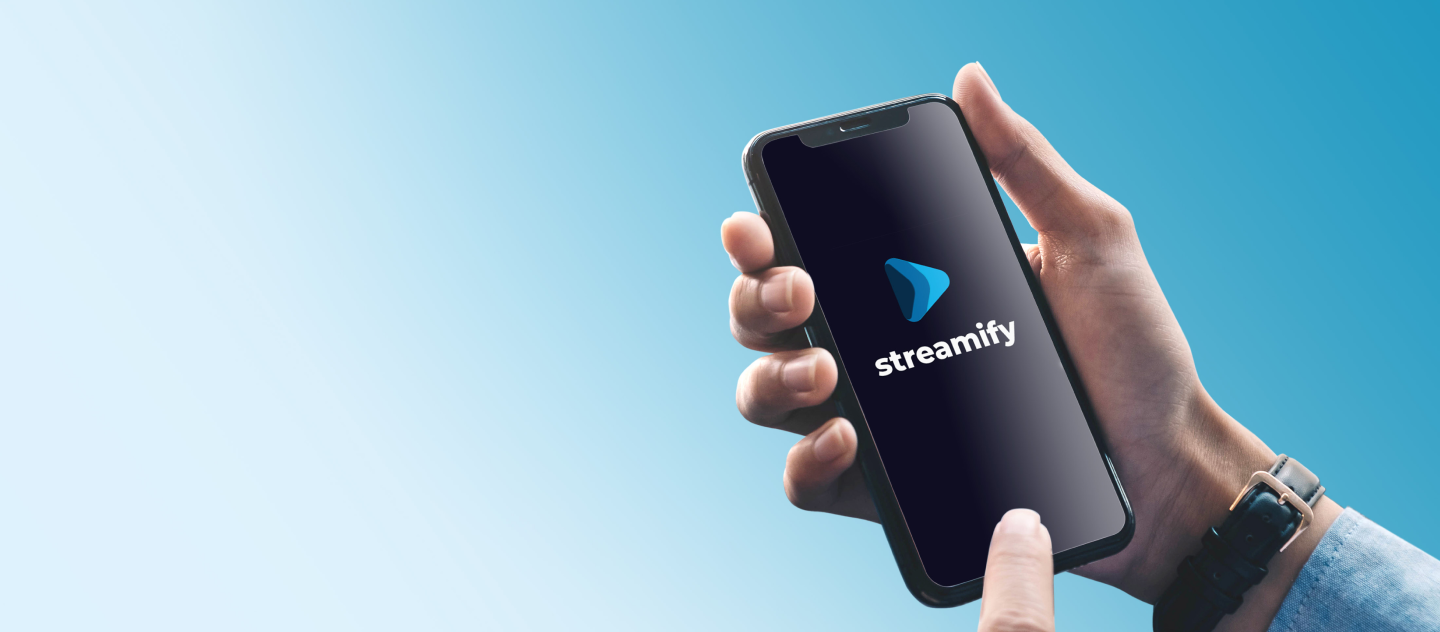
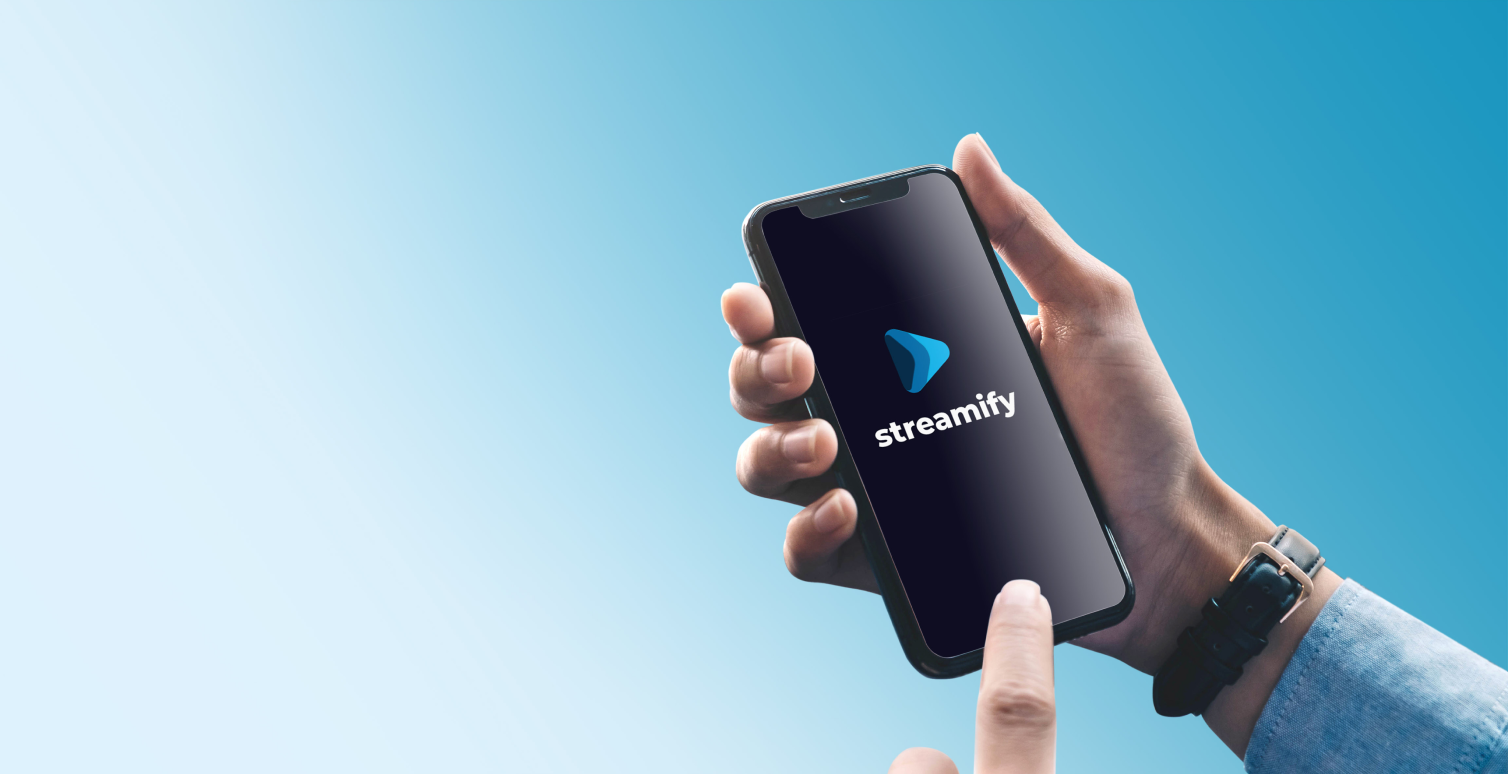
Block section image positioning

Changed region(s): [[0.4688, 0.0902, 1.0, 1.0]]

diff --git a/css/block-section.css b/css/block-section.css
@@ -1,6 +1,6 @@
 .block {
   width: 100%;
-  height: 632px;
+  height: 800px;
   padding: 200px;
   display: flex;
   align-items: center;
@@ -14,7 +14,7 @@
     ),
     url("../images/block-img-1.png");
   /* mix-blend-mode: normal; */
-  background-position: center;
+  background-position: center top;
   background-repeat: no-repeat;
   background-size: 100% 100%;
 }
@@ -27,7 +27,7 @@
     ),
     url("../images/block-img-2.png");
   mix-blend-mode: normal;
-  background-position: center;
+  background-position: center 24%;
   background-repeat: no-repeat;
   background-size: 100% 100%;
 }
@@ -67,24 +67,38 @@
 /* MEDIA QUERIES */
 
 @media (max-width: 1440px) {
-  .img-1 .img-2 .img-3 {
-    background-size: auto;
+  .img-1 {
+    background-size: 1480px 986px;
+    background-position: 100% 22%;
+  }
+
+  .img-2 {
+    background-size: 1666px 1052px;
+    background-position: 90% 22%;
+  }
+
+  .img-3 {
+    background-size: 1508px 774px;
+  }
+  .block {
+    height: 632px;
   }
 }
 
 @media (max-width: 1150px) {
   .block {
     padding: 100px;
+    height: 632px;
   }
 
-  .img-1 .img-2 .img-3 {
-    background-size: auto;
+  .img-2 {
+    background-position: 50% 22%;
   }
 }
 
 @media (max-width: 920px) {
-  .img-1 .img-2 .img-3 {
-    background-position: right;
+  .img-1 {
+    background-position: 90% 22%;
   }
 
   .block {
@@ -95,7 +109,6 @@
 @media (max-width: 816px) {
   .block {
     height: 600px;
-    padding: 16px;
   }
 
   .img-1 {
@@ -146,6 +159,7 @@
 @media (max-width: 576px) {
   .block {
     height: 426px;
+    padding: 16px;
   }
 
   .img-1 {
@@ -166,6 +180,7 @@
       ),
       url("../images/block-img-2.png");
     background-size: 682px 432px;
+    background-position: 70% 24%;
   }
 
   .img-3 {
@@ -176,5 +191,6 @@
       ),
       url("../images/block-img-3.png");
     background-size: 682px 432px;
+    background-position: 40% 50%;
   }
 }

diff --git a/script.js b/script.js
@@ -699,14 +699,18 @@ showMoreBtn.addEventListener("click", function () {
     commentsContainer.innerHTML = "";
     for (let j = 0; j < i + 5; j++) {
       commentHTML = `
-    <div class='single-comment'>
+      <div class='single-comment'>
       <img src='${curData[j].avatarUrl}' class='comment-img' />
-      <div class='name-email-container'>
-        <p class='comment-name'>${curData[j].name}</p>
-        <p class='comment-email'>(${curData[j].email})</p>
+      <div class='content-container'>
+        <div class='top-container'>
+          <div class='name-email-container'>
+            <p class='comment-name'>${curData[j].name}</p>
+            <p class='comment-email'>(${curData[j].email})</p>
+          </div>
+          <p class='comment-date'>${curData[j].postedAt}</p>
+        </div>
+        <p class='comment-content'>${curData[j].comment}</p>
       </div>
-      <p class='comment-date'>${curData[j].postedAt}</p>
-      <p class='comment-content'>${curData[j].comment}</p>
     </div>
     `;
 

diff --git a/index.html b/index.html
@@ -107,7 +107,7 @@
       <div class="block img-3">
         <div class="block-content-container">
         <h2 class="block-secondary-header">Streamify premium</h2>
-        <p class="block-text">Download our new streaming app and stream your content as a pro.</p>
+        <p class="block-text">Download our new streaming<br /> app and stream your content as a pro.</p>
       </div>
       </div>
     </section>

diff --git a/css/active-streamers-widget.css b/css/active-streamers-widget.css
@@ -159,6 +159,11 @@
     height: 16px;
   }
 
+  .widget {
+    grid-template-columns: 1fr;
+    gap: 0;
+  }
+
   .active-user-img {
     width: 48px;
     height: 48px;

diff --git a/css/pricing.css b/css/pricing.css
@@ -387,7 +387,7 @@
   }
 }
 
-@media (max-width: 360px) {
+@media (max-width: 350px) {
   .pricing-packets {
     max-width: 280px;
     padding: 0 6px;

diff --git a/css/benefits.css b/css/benefits.css
@@ -11,6 +11,7 @@
   flex-direction: column;
   justify-content: center;
   align-items: center;
+  gap: 16px;
 }
 
 .benefit-img {
